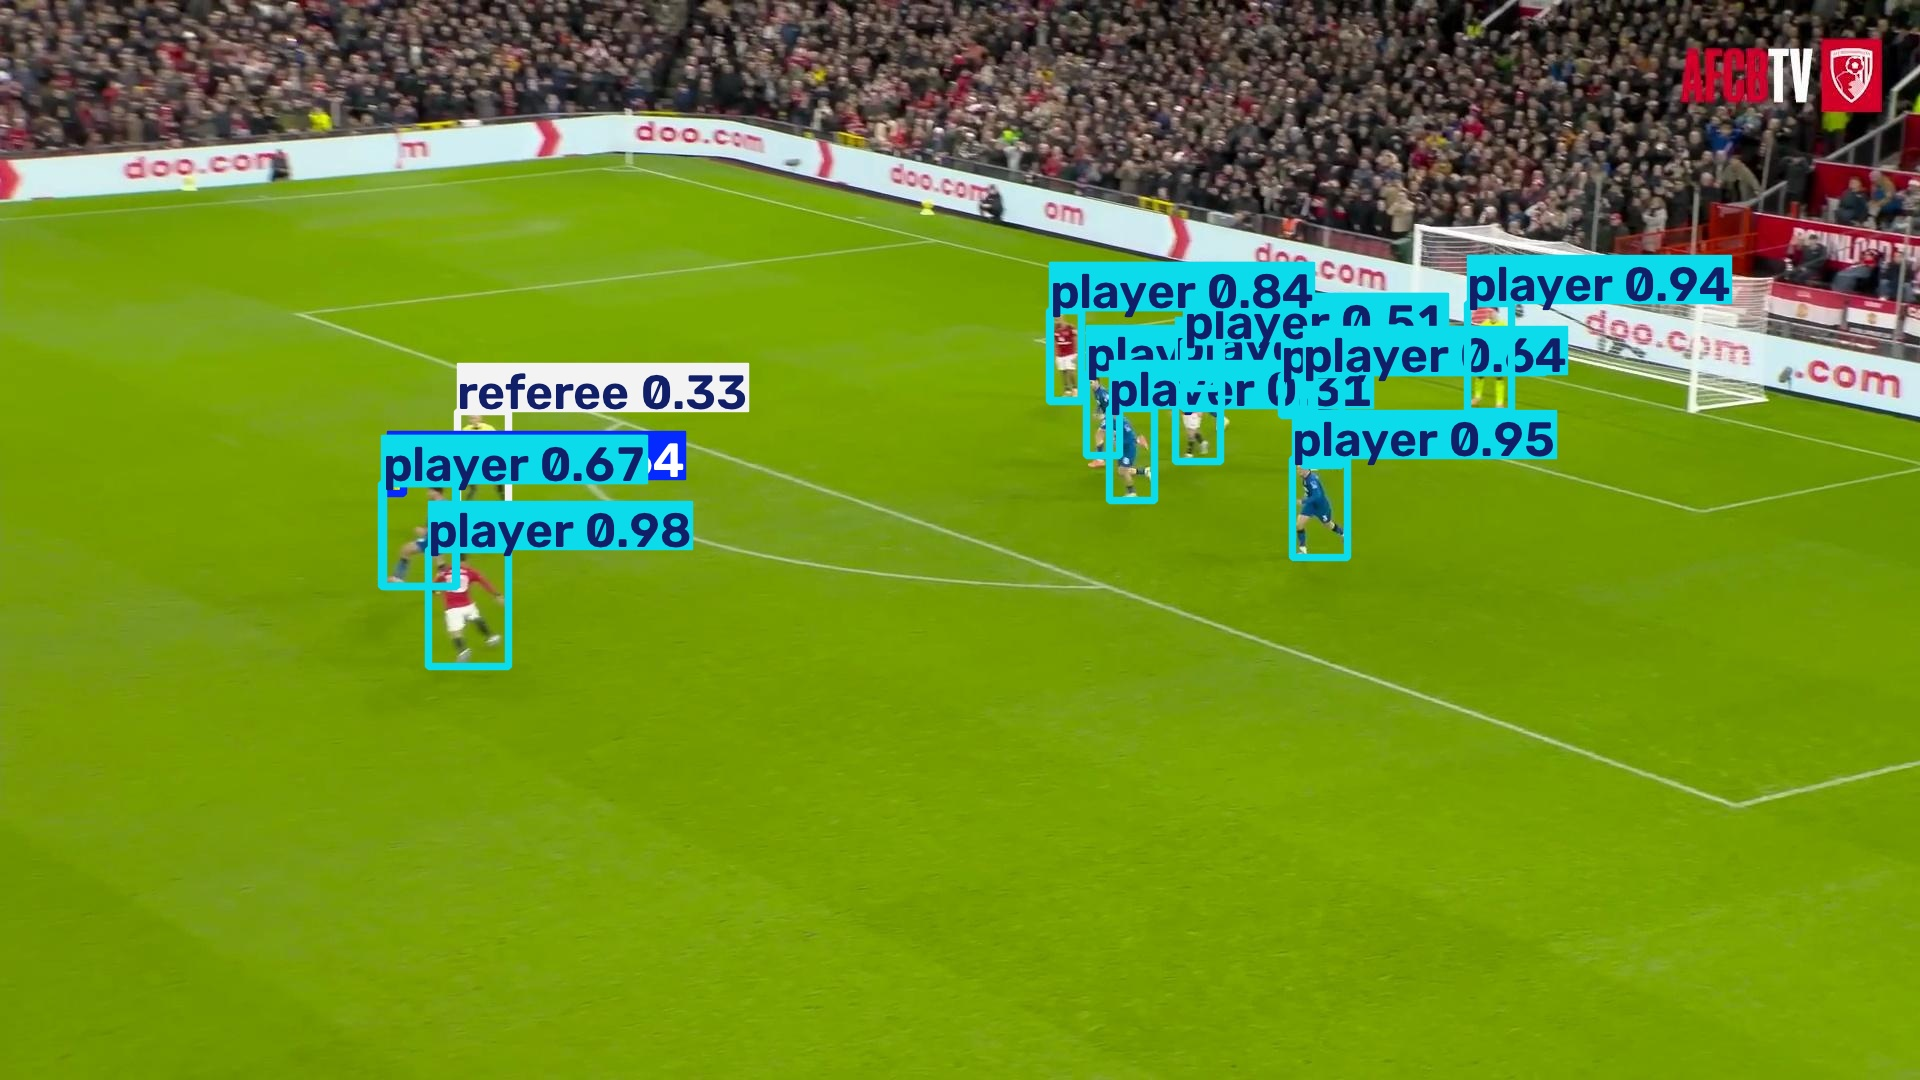
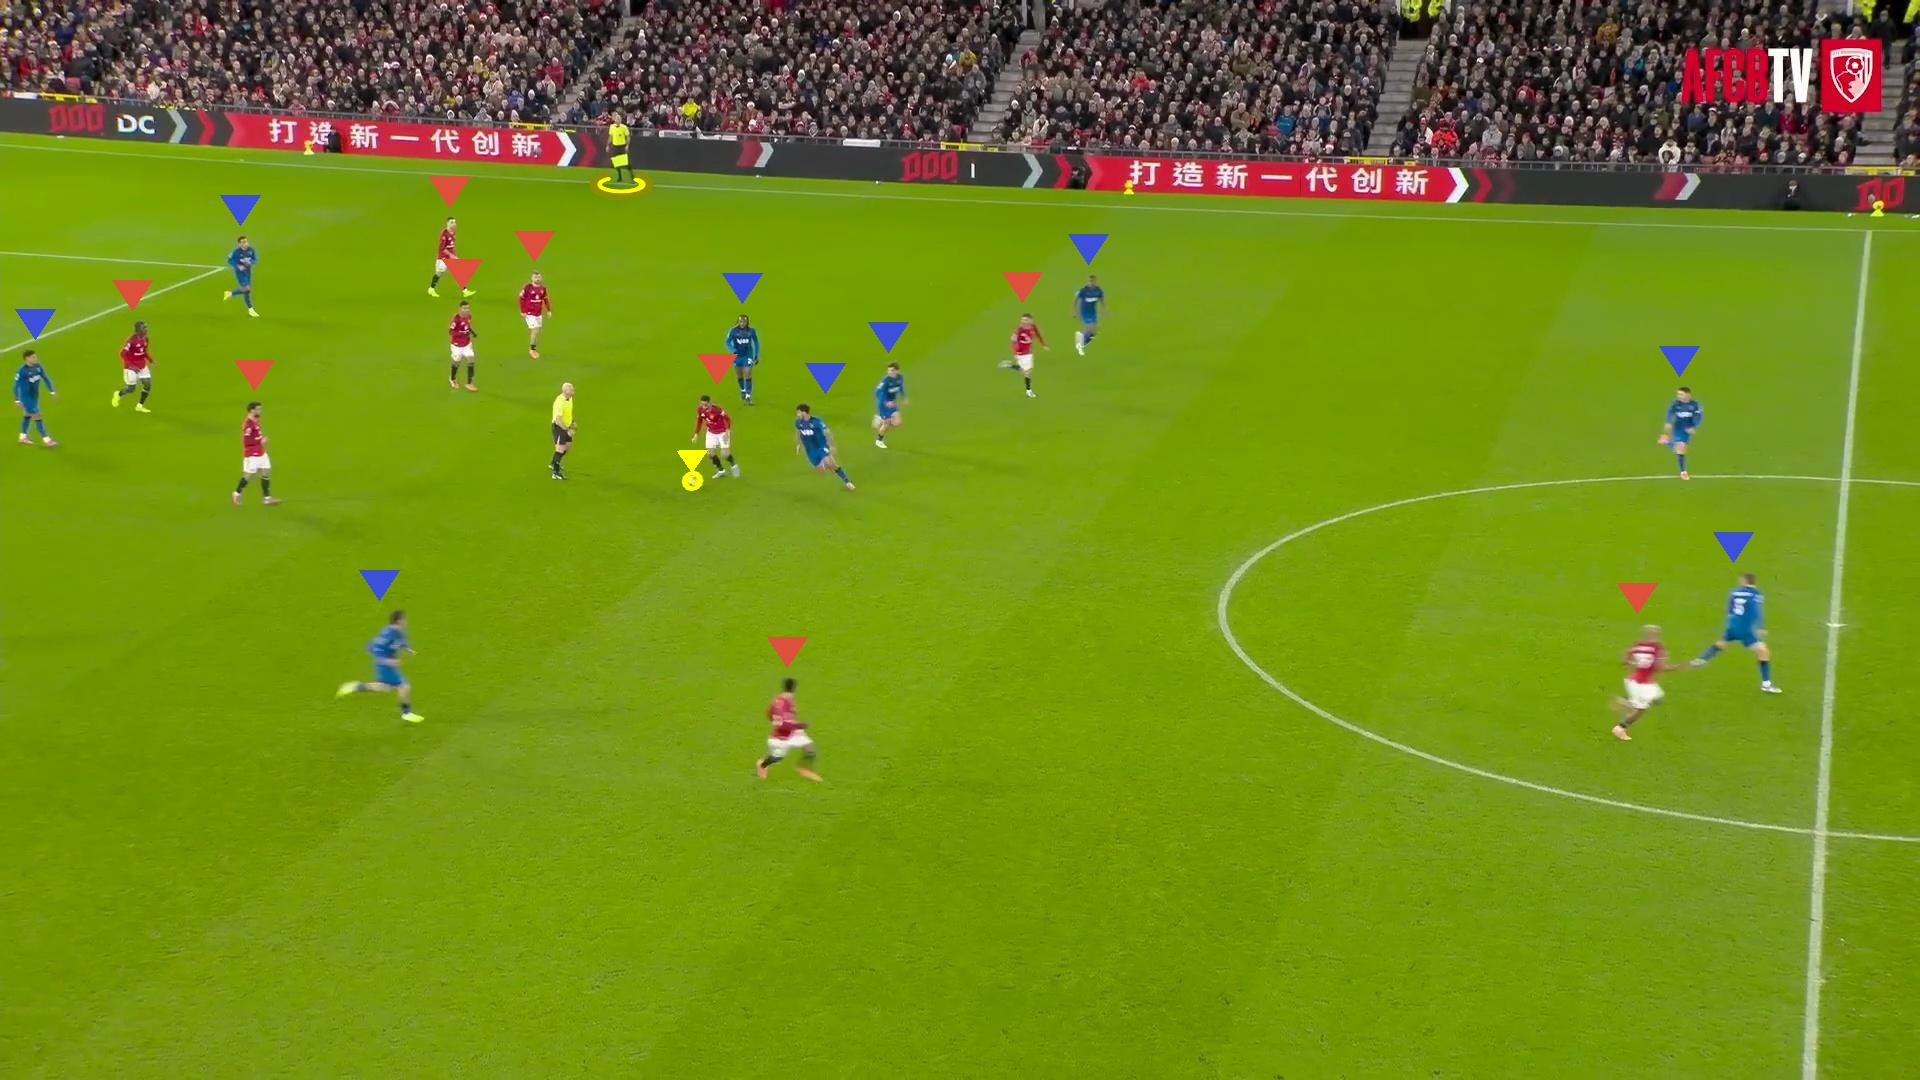
Enhance image saving functionality and improve jersey color assignment in TeamTracker

diff --git a/src/scripts/team_tracker.py b/src/scripts/team_tracker.py
@@ -7,17 +7,22 @@ class TeamTracker:
         self.cents, self.alpha = None, ema_alpha
 
     def assign(self, colors):
+        """Assigns team IDs based on jersey colors using k-means clustering and exponential moving average for centroid updates."""
+
+        # Find the indices of valid colors (non-None)
         v_idx = [i for i, c in enumerate(colors) if c]
         res, fall = [-1] * len(colors), [(220, 80, 60), (60, 80, 220)]
         if len(v_idx) < 2:
             return res, fall
 
+        # Perform k-means clustering
         pts = np.array([colors[i] for i in v_idx], dtype=np.float32)
         if self.cents is None:
             _, _, self.cents = cv2.kmeans(
                 pts, 2, None, (3, 20, 0.5), 5, cv2.KMEANS_PP_CENTERS
             )
 
+        # Assign each point to the closest centroid
         lbls = np.linalg.norm(pts[:, None] - self.cents, axis=2).argmin(axis=1)
 
         for t in range(2):

diff --git a/src/main.py b/src/main.py
@@ -74,10 +74,13 @@ for r in YOLO(args.model).predict(
     stream=True,
     verbose=False,
 ):
+
     img = r.orig_img.copy()
 
+    # Get the bounding boxes, class IDs, and class names
     b, c, n = r.boxes.xyxy.cpu().numpy(), r.boxes.cls.cpu().numpy(), r.names
 
+    # Get the jersey colors
     colors = [jersey_color(img, int(x[0]), int(x[1]), int(x[2]), int(x[3])) for x in b]
 
     team_ids, team_colors = team_tracker.assign(colors)
@@ -85,6 +88,7 @@ for r in YOLO(args.model).predict(
     draw_annotations(img, b, c, n, team_ids, team_colors)
 
     if is_img:
+        # TODO: Add option to save image with a different name or in a different directory
         cv2.imwrite("output/result.jpg", img)
         print("Result saved to output/result.jpg")
         break
